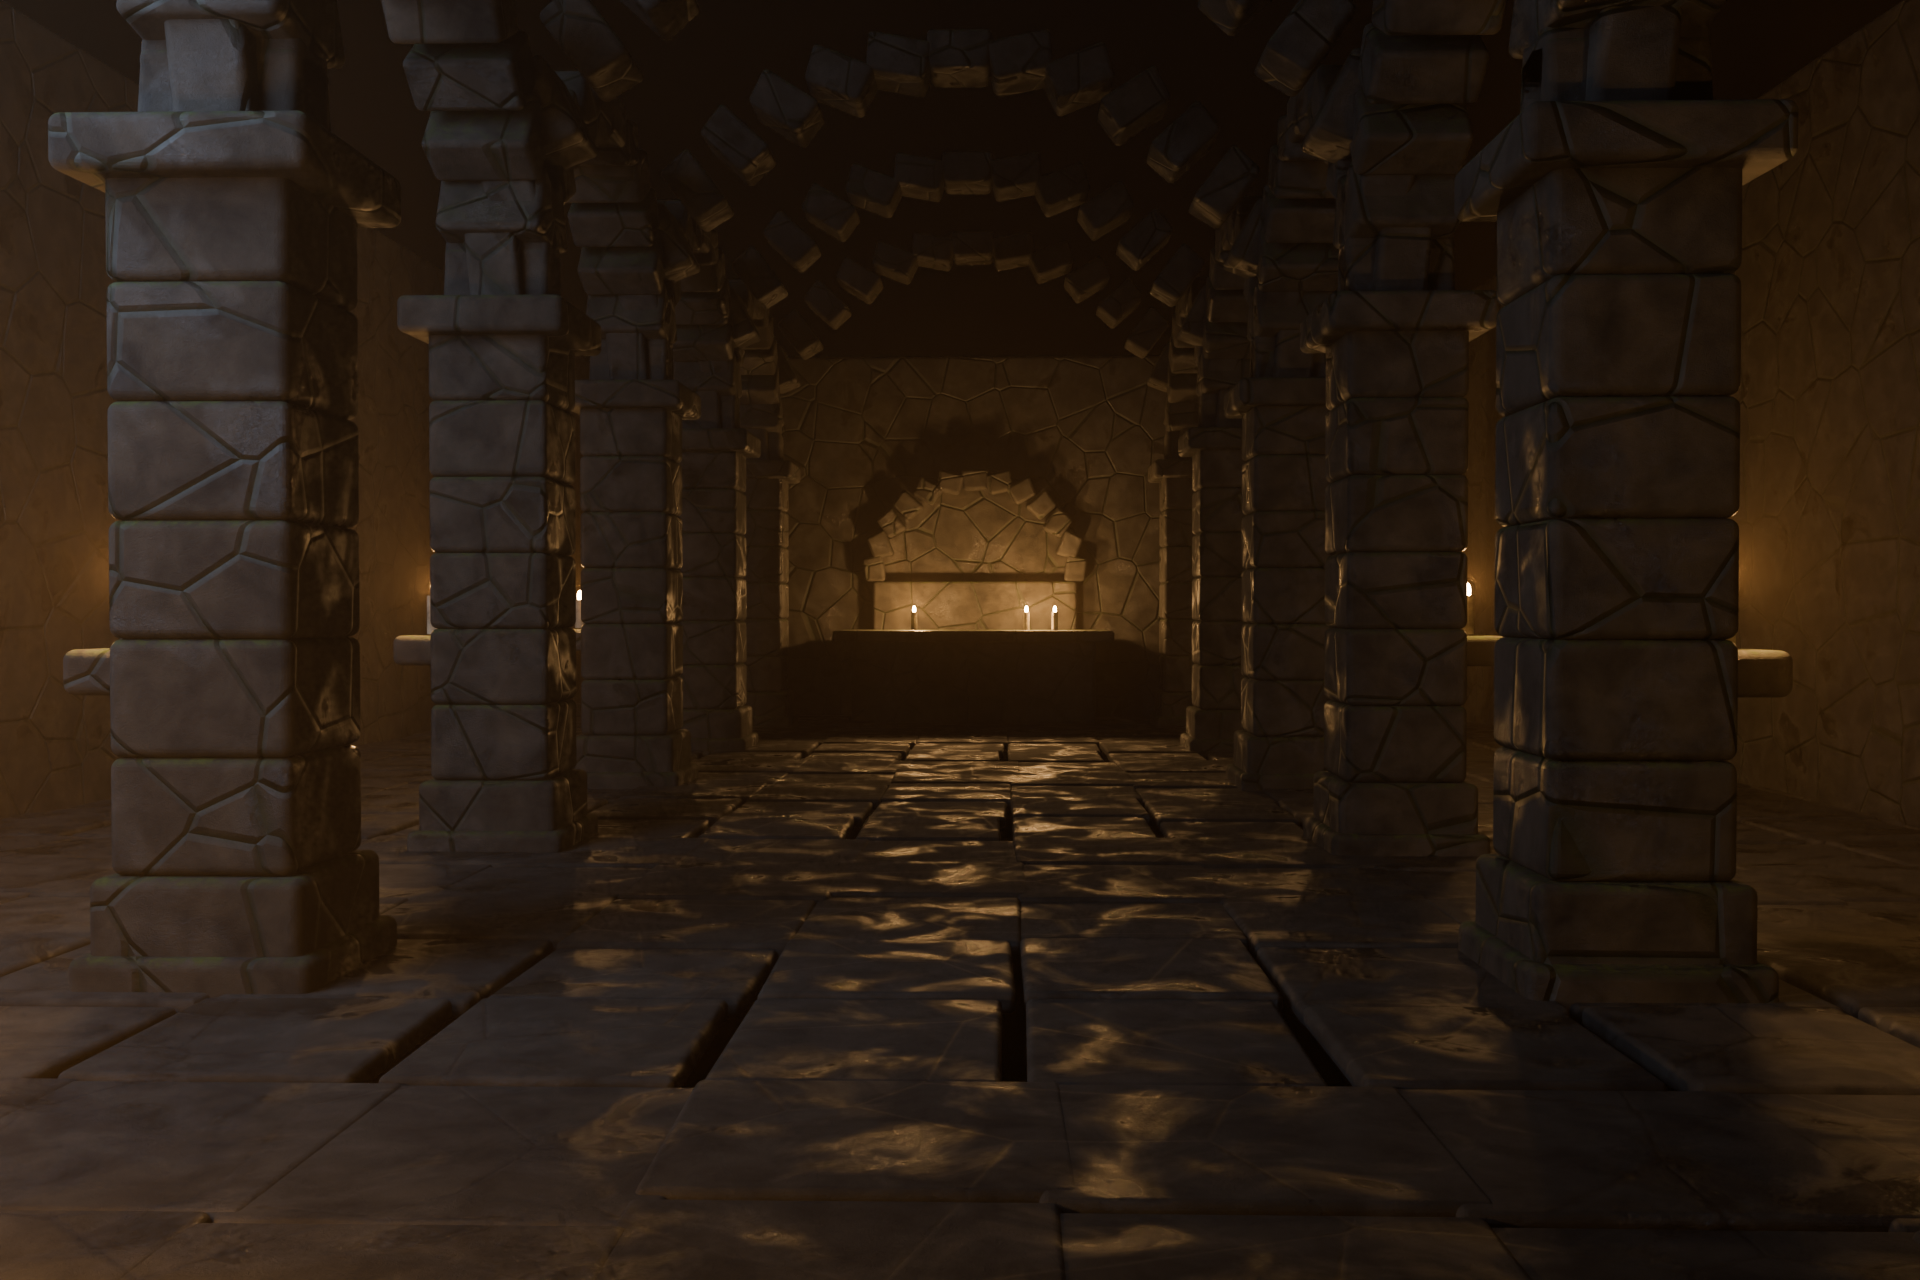
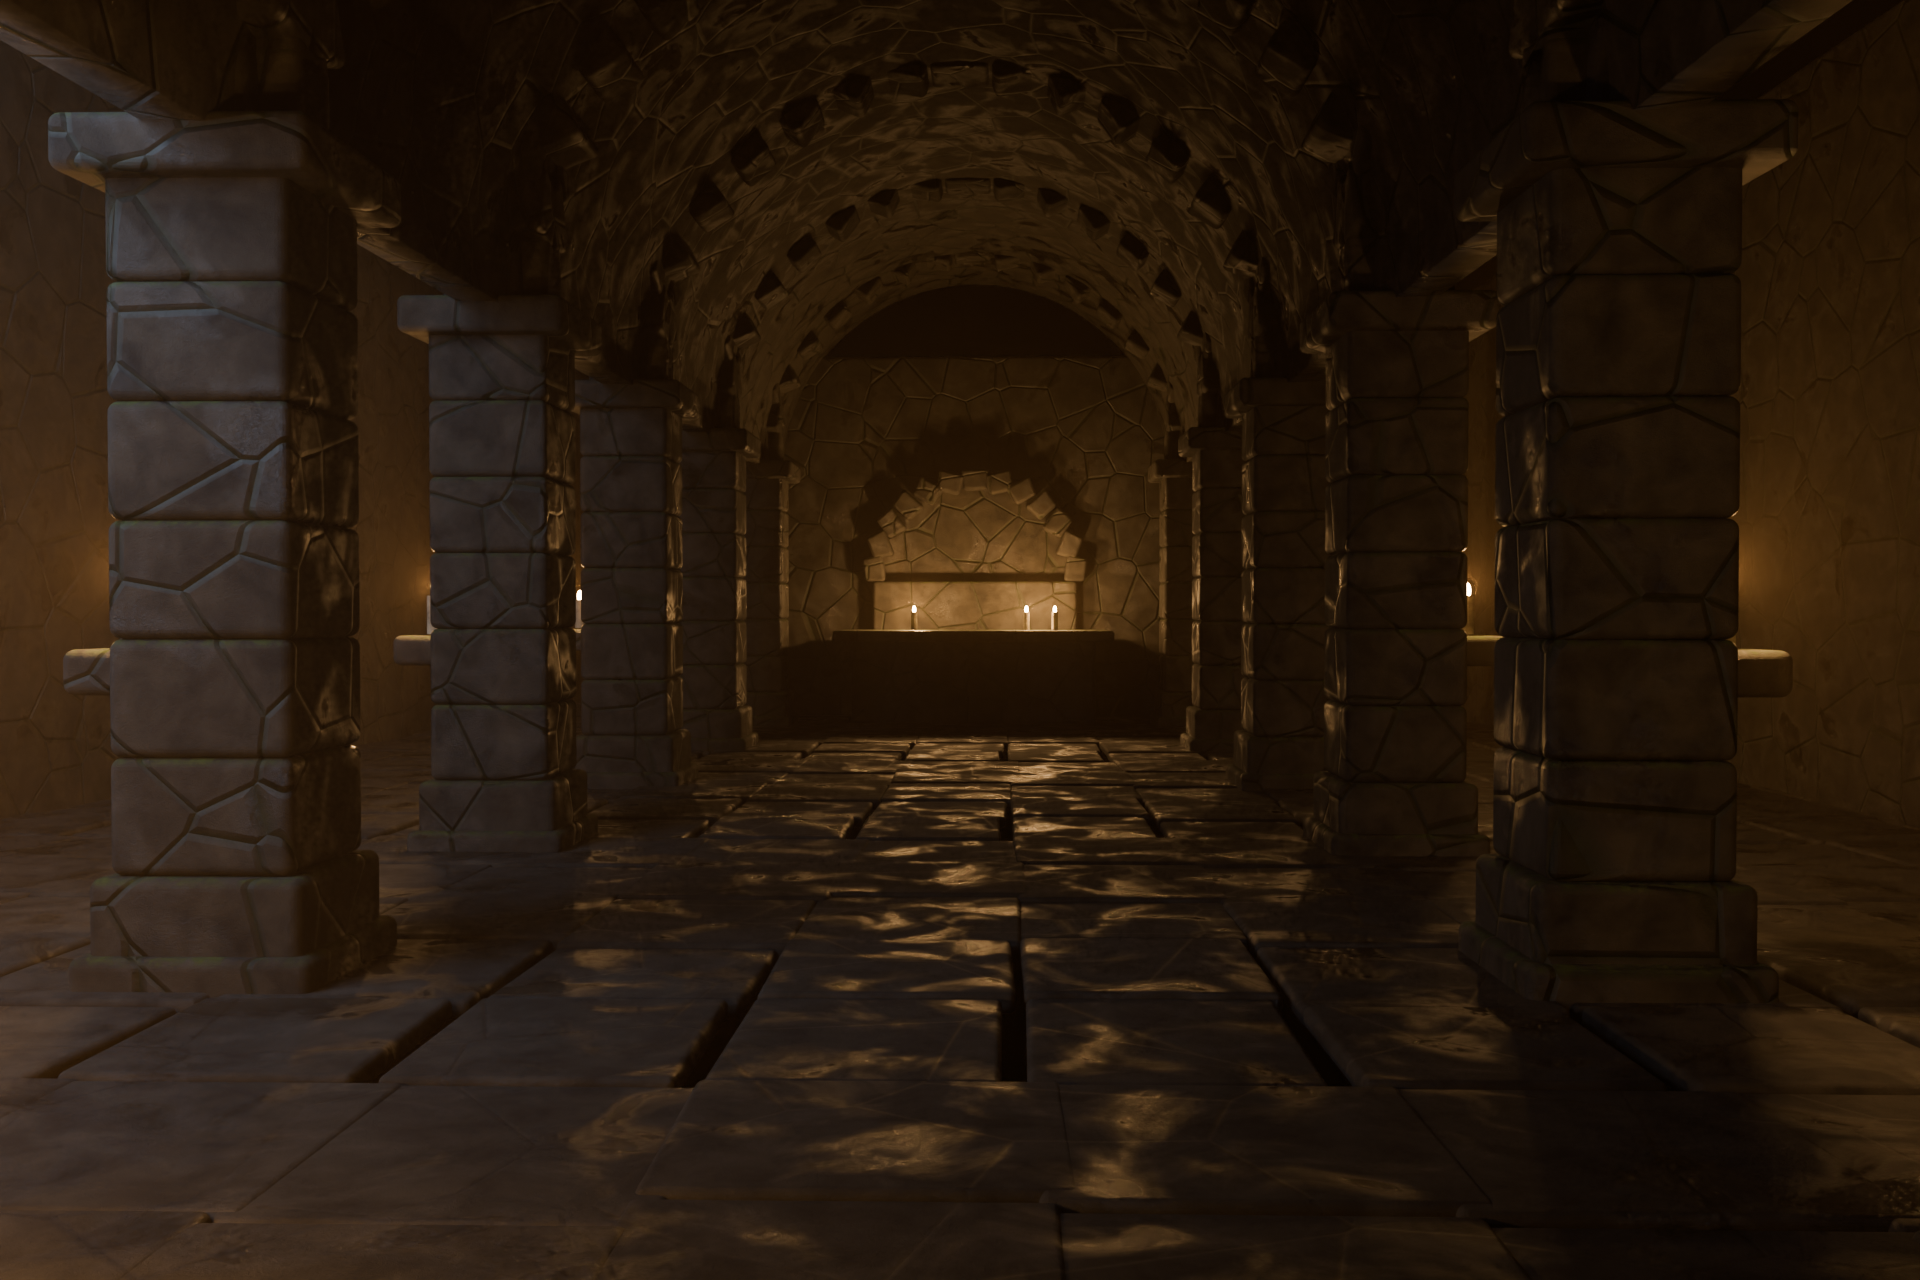
The floating stones were three different arches, seen through a missing ceiling
I misdiagnosed this. The wedge work in the last commit is real -- an arch of
boxes genuinely cannot close -- but it is not what was making the vault look
like blocks hanging in the air, which is why fixing it changed nothing you
could see.

Raycasting the pixel that was circled, and its neighbours:

    (1205, 175)  ->  nothing
    (1180, 215)  ->  Voussoir13.004   18.57 m
    (1240, 150)  ->  Voussoir4.007    15.98 m
    (1150, 250)  ->  Voussoir13.005   22.36 m

Three different arches, at three different distances, overlapping in
perspective. The gaps were never *within* an arch. They were the spaces
between six free-standing transverse ribs 3.8 metres apart down the nave,
with nothing behind them.

There was no vault. This scene's own docstring says so and calls it a
choice: "the vault is *implied* by where the arches stop being visible, and
implying it costs nothing". That holds while the arches are barely lit, and I
broke it this evening by taking the exposure from 1.15 to 1.85 -- light the
architecture well enough to read it and you also read that there is nothing
behind it. The fix for one problem created this one.

`vault_web` is a plain barrel at the ribs' extrados, so the ribs hang proud
of it the way a rib vault actually works, with a solidify so it is a ceiling
rather than a film. Only the fitted room gets it; the original is untouched.

Two lessons for the file. Squinting at a render is not diagnosis -- I looked
[…]

diff --git a/art/blender/scenes.py b/art/blender/scenes.py
@@ -243,6 +243,51 @@ def terrain(size=400.0, resolution=340, kind="hetero", height=34.0,
     return ground
 
 
+def vault_web(y_from, y_to, springing, radius, material, segments=34,
+              name="Vault"):
+    """The ceiling between the ribs.
+
+    There was not one. The vault was six free-standing transverse arches with
+    open sky-less black between them, on the theory -- written into this
+    scene's docstring -- that it would be *implied* by where the arches stop
+    being visible. That works while the arches are barely lit, and it stopped
+    working the moment the exposure went up: raise the light enough to read
+    the architecture and you also read that there is nothing behind it.
+
+    So what looks like floating stones in the vault is not one arch coming
+    apart. It is three different arches at 16, 18 and 22 metres, seen
+    overlapping through the gap where the ceiling should be.
+
+    A plain barrel, at the ribs' extrados so the ribs hang proud of it the
+    way a rib vault actually works.
+    """
+    verts, faces = [], []
+    for index in range(segments + 1):
+        angle = math.pi * index / segments
+        x = -radius * math.cos(angle)
+        z = springing + radius * math.sin(angle)
+        verts.append((x, y_from, z))
+        verts.append((x, y_to, z))
+    for index in range(segments):
+        a = index * 2
+        faces.append((a, a + 1, a + 3, a + 2))
+
+    mesh = bpy.data.meshes.new(name)
+    mesh.from_pydata(verts, [], faces)
+    mesh.update()
+    obj = bpy.data.objects.new(name, mesh)
+    bpy.context.collection.objects.link(obj)
+    obj.data.materials.append(material)
+    for polygon in obj.data.polygons:
+        polygon.use_smooth = True
+    # Give it a wall thickness, so it is a ceiling rather than a film -- a
+    # single surface lit from one side leaks at every grazing angle.
+    solid = obj.modifiers.new("Solidify", "SOLIDIFY")
+    solid.thickness = 0.28
+    solid.offset = 1.0
+    return obj
+
+
 def monolith(x, y, height, width, material, lean=0.0, twist=0.0, z=0.0):
     """A standing slab. Bryce put these everywhere and so does this game."""
     return look.block((x, y, z + height / 2), (width, width * 0.62, height),
@@ -313,6 +358,11 @@ def undercroft(path, floor=True, render=True, groups=None,
         keep("Vault_Arches",
              arch(-3.0, 3.0, y, 3.62, stone, stones=17, thickness=0.34,
                   depth=0.62, fitted=fitted))
+
+    if fitted:
+        # Just inside the ribs' extrados (3.0 + 0.34/2 = 3.17), so the ribs
+        # stand proud of the web instead of z-fighting with it.
+        keep("Vault_Web", vault_web(-6.0, 17.4, 3.62, 3.15, stone))
 
     # Side walls, well back, so the arcade has something to be in front of.
     for x in (-7.4, 7.4):
